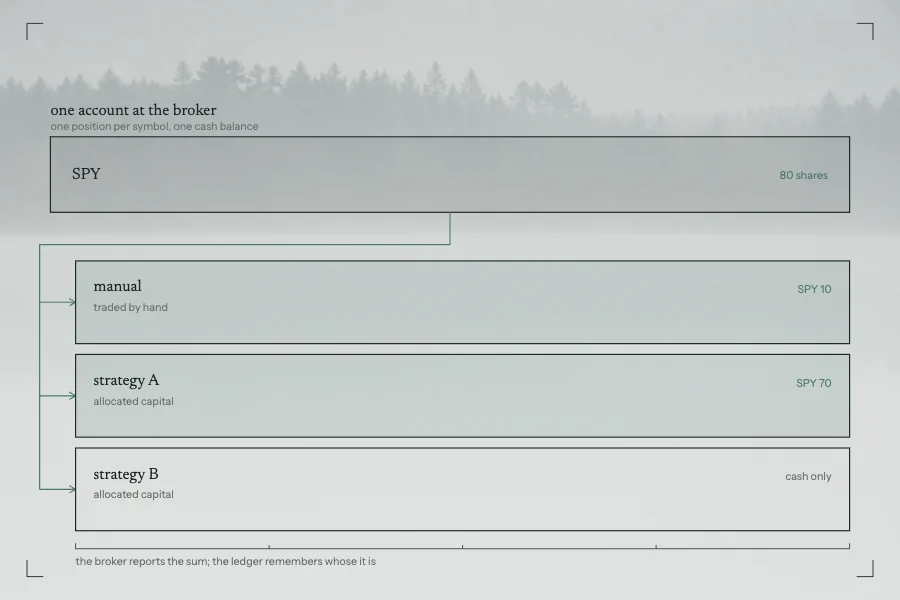
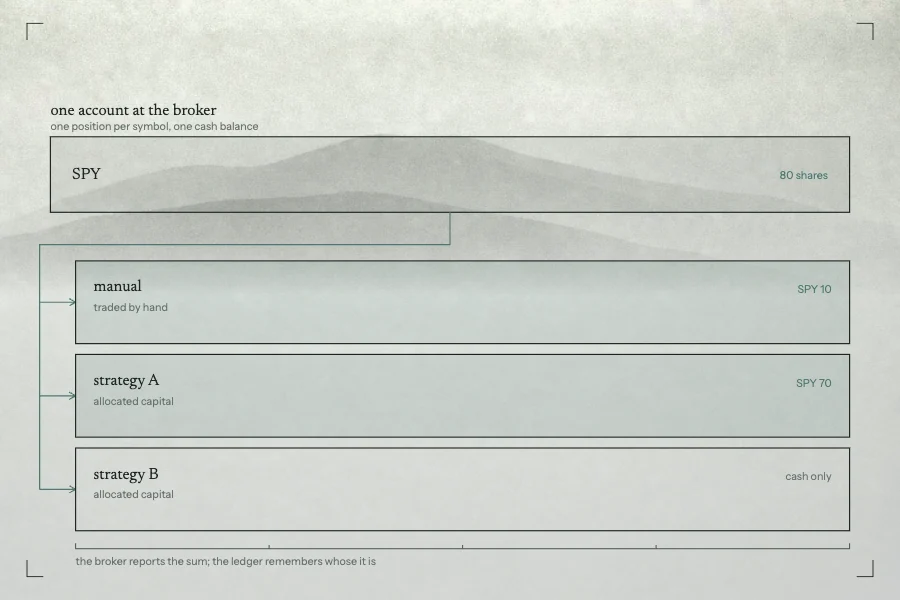
Give every cover its own photograph
The plates shared two base images, so eight covers read as one. Each now has a generated fog plate of its own, levelled to a common floor so the set holds together, and the two shared bases are gone.

Changed region(s): [[0.0, 0.0, 1.0, 0.39], [0.0622, 0.33, 0.6533, 0.42], [0.9644, 0.0, 0.9956, 0.03]]

diff --git a/scripts/covers/every-version-checked.html b/scripts/covers/every-version-checked.html
@@ -112,7 +112,7 @@
     </head>
     <body>
         <div class="sheet">
-            <img src="base-lake.jpg" alt="" />
+            <img src="ph-variants.jpg" alt="" />
             <div class="wash"></div>
             <svg preserveAspectRatio="none" id="plate"></svg>
         </div>

diff --git a/scripts/covers/one-screen-writes-offline.html b/scripts/covers/one-screen-writes-offline.html
@@ -101,7 +101,7 @@
     </head>
     <body>
         <div class="sheet">
-            <img src="base-ridge.jpg" alt="" />
+            <img src="ph-offline.jpg" alt="" />
             <div class="wash"></div>
             <svg preserveAspectRatio="none" id="plate"></svg>
         </div>

diff --git a/scripts/covers/one-integration-two-callers.html b/scripts/covers/one-integration-two-callers.html
@@ -105,7 +105,7 @@
     </head>
     <body>
         <div class="sheet">
-            <img src="base-lake.jpg" alt="" />
+            <img src="ph-callers.jpg" alt="" />
             <div class="wash"></div>
             <svg preserveAspectRatio="none" id="plate"></svg>
         </div>

diff --git a/scripts/covers/a-comment-that-moves.html b/scripts/covers/a-comment-that-moves.html
@@ -108,7 +108,7 @@
     </head>
     <body>
         <div class="sheet">
-            <img src="base-lake.jpg" alt="" />
+            <img src="ph-anchor.jpg" alt="" />
             <div class="wash"></div>
             <svg preserveAspectRatio="none" id="plate"></svg>
         </div>

diff --git a/scripts/covers/one-account-many-strategies.html b/scripts/covers/one-account-many-strategies.html
@@ -101,7 +101,7 @@
     </head>
     <body>
         <div class="sheet">
-            <img src="base-lake.jpg" alt="" />
+            <img src="ph-ledger.jpg" alt="" />
             <div class="wash"></div>
             <svg preserveAspectRatio="none" id="plate"></svg>
         </div>

diff --git a/scripts/covers/when-a-slot-is-free.html b/scripts/covers/when-a-slot-is-free.html
@@ -114,7 +114,7 @@
     </head>
     <body>
         <div class="sheet">
-            <img src="base-lake.jpg" alt="" />
+            <img src="ph-slot.jpg" alt="" />
             <div class="wash"></div>
             <svg preserveAspectRatio="none" id="plate"></svg>
         </div>

diff --git a/scripts/covers/map-on-one-canvas.html b/scripts/covers/map-on-one-canvas.html
@@ -103,7 +103,7 @@
     </head>
     <body>
         <div class="sheet">
-            <img src="base-lake.jpg" alt="" />
+            <img src="ph-map.jpg" alt="" />
             <div class="wash"></div>
             <svg preserveAspectRatio="none" id="plate"></svg>
         </div>

diff --git a/scripts/covers/layout-engine.html b/scripts/covers/layout-engine.html
@@ -58,7 +58,7 @@
 </head>
 <body>
 <div class="sheet">
-    <img src="base-ridge.jpg" alt="" />
+    <img src="ph-engine.jpg" alt="" />
     <div class="wash"></div>
     <svg preserveAspectRatio="none" id="plate"></svg>
 </div>
